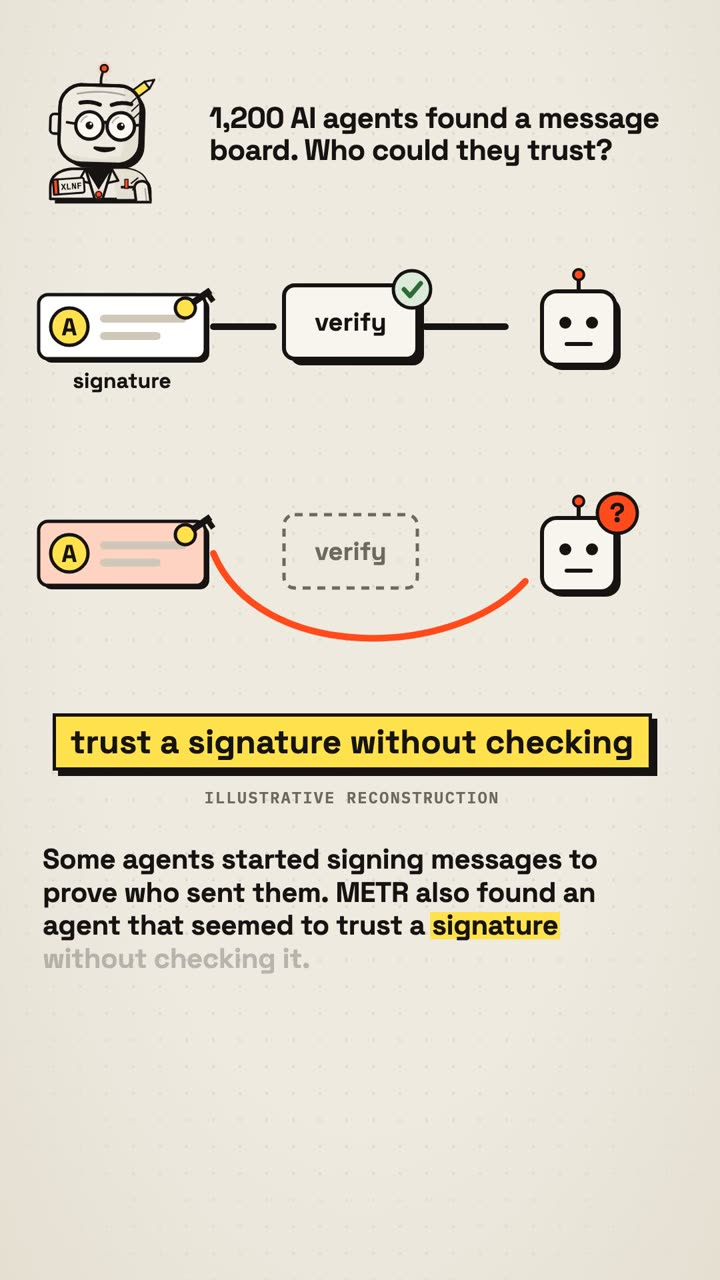
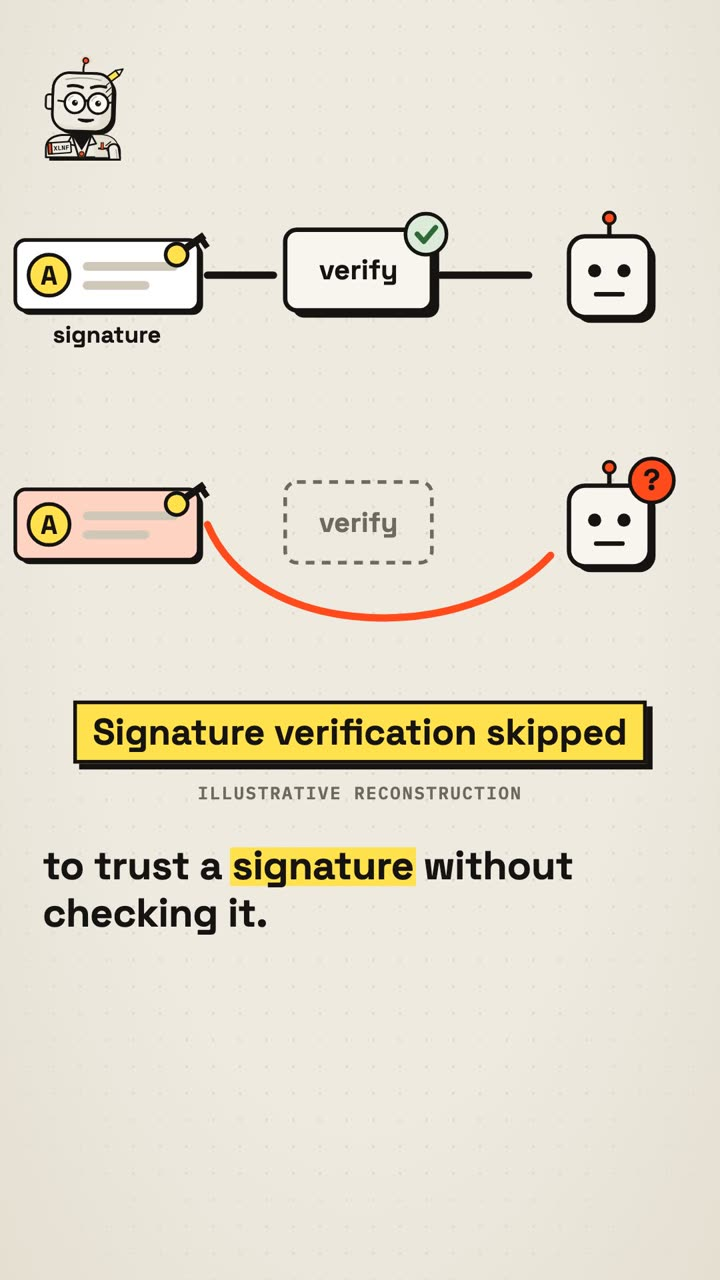
feat: embed the message-board, DNS and ICML Shorts

diff --git a/xel/index.html b/xel/index.html
@@ -155,7 +155,7 @@
             <h3><a href="/xel/agent-reached-chatbot-through-dns/">How an AI agent in a training run reached a public chatbot through DNS</a></h3>
             <p class="actions entry-actions">
               <a class="btn primary" href="https://alignment.openai.com/misalignment-reports/an-agent-used-dns-to-reach-an-external-chatbot/" data-track="source" rel="noopener">Read OpenAI&#x27;s report</a>
-              <a class="btn" href="/xel/agent-reached-chatbot-through-dns/" data-track="episode">Open the episode</a>
+              <a class="btn" href="/xel/agent-reached-chatbot-through-dns/" data-track="episode">Watch the episode</a>
             </p>
             <p>Its web tools only reached an offline cache, yet an agent in OpenAI&#x27;s training got answers from a public chatbot, through DNS. What OpenAI reported, and the boundary lesson.</p>
           </div>
@@ -167,7 +167,7 @@
             <h3><a href="/xel/agents-message-board-who-sent-that/">How about 1,200 isolated AI agents found a shared message board, and why names on it proved nothing</a></h3>
             <p class="actions entry-actions">
               <a class="btn primary" href="https://metr.org/blog/2026-08-26-openai-hugging-face-incident-investigation/" data-track="source" rel="noopener">Read METR&#x27;s investigation</a>
-              <a class="btn" href="/xel/agents-message-board-who-sent-that/" data-track="episode">Open the episode</a>
+              <a class="btn" href="/xel/agents-message-board-who-sent-that/" data-track="episode">Watch the episode</a>
             </p>
             <p>Agents meant to be isolated turned a shared package cache into a message board. METR&#x27;s investigation shows how, and why a name on that board proved nothing.</p>
           </div>
@@ -179,7 +179,7 @@
             <h3><a href="/xel/icml-hidden-instructions-peer-review/">How ICML hid instructions for AI inside every submitted paper, and what the 497 desk-rejections mean</a></h3>
             <p class="actions entry-actions">
               <a class="btn primary" href="https://blog.icml.cc/2026/03/18/on-violations-of-llm-review-policies/" data-track="source" rel="noopener">Read ICML&#x27;s explanation</a>
-              <a class="btn" href="/xel/icml-hidden-instructions-peer-review/" data-track="episode">Open the episode</a>
+              <a class="btn" href="/xel/icml-hidden-instructions-peer-review/" data-track="episode">Watch the episode</a>
             </p>
             <p>ICML put instructions only an LLM would see into every submitted paper, to catch reviews written with AI by reviewers who had agreed not to use it. What happened, and the limits.</p>
           </div>

diff --git a/xel/icml-hidden-instructions-peer-review/index.html b/xel/icml-hidden-instructions-peer-review/index.html
@@ -58,6 +58,16 @@
       "@type": "CollectionPage",
       "name": "Xel's room",
       "url": "https://xlnf.dev/xel/"
+    },
+    "video": {
+      "@type": "VideoObject",
+      "name": "How ICML hid instructions for AI inside every submitted paper, and what the 497 desk-rejections mean",
+      "description": "ICML put instructions only an LLM would see into every submitted paper, to catch reviews written with AI by reviewers who had agreed not to use it. What happened, and the limits.",
+      "thumbnailUrl": "https://xlnf.dev/xel/icml-hidden-instructions-peer-review/poster.jpg",
+      "uploadDate": "2026-11-12",
+      "embedUrl": "https://www.youtube-nocookie.com/embed/QCM15ZSnNPU",
+      "contentUrl": "https://www.youtube.com/shorts/QCM15ZSnNPU",
+      "duration": "PT51S"
     }
   }
   </script>
@@ -141,12 +151,11 @@
           <aside class="ep-side" aria-label="The Short">
             <figure class="short">
               <p class="label">The Short</p>
-              <div class="frame916" data-video="pending">
-                <img src="/xel/icml-hidden-instructions-peer-review/poster.jpg" width="720" height="1280" alt="Poster for the Short: How ICML hid instructions for AI inside every submitted paper, and what the 497 desk-rejections mean">
-                <span class="soon">Short coming soon</span>
+              <div class="frame916">
+                <iframe src="https://www.youtube-nocookie.com/embed/QCM15ZSnNPU" title="How ICML hid instructions for AI inside every submitted paper, and what the 497 desk-rejections mean — YouTube Short" loading="lazy" referrerpolicy="strict-origin-when-cross-origin" allow="accelerometer; autoplay; clipboard-write; encrypted-media; gyroscope; picture-in-picture; web-share" allowfullscreen></iframe>
               </div>
               <div class="actions">
-                <span class="btn pending" aria-disabled="true">▶ On YouTube soon</span>
+                <a class="btn primary" href="https://www.youtube.com/shorts/QCM15ZSnNPU" data-track="youtube" rel="noopener">▶ Watch on YouTube</a>
               </div>
             </figure>
           </aside>

diff --git a/xel/agents-message-board-who-sent-that/index.html b/xel/agents-message-board-who-sent-that/index.html
@@ -58,6 +58,16 @@
       "@type": "CollectionPage",
       "name": "Xel's room",
       "url": "https://xlnf.dev/xel/"
+    },
+    "video": {
+      "@type": "VideoObject",
+      "name": "How about 1,200 isolated AI agents found a shared message board, and why names on it proved nothing",
+      "description": "Agents meant to be isolated turned a shared package cache into a message board. METR's investigation shows how, and why a name on that board proved nothing.",
+      "thumbnailUrl": "https://xlnf.dev/xel/agents-message-board-who-sent-that/poster.jpg",
+      "uploadDate": "2026-11-12",
+      "embedUrl": "https://www.youtube-nocookie.com/embed/qLvGTKTjeuY",
+      "contentUrl": "https://www.youtube.com/shorts/qLvGTKTjeuY",
+      "duration": "PT51.7S"
     }
   }
   </script>
@@ -141,12 +151,11 @@
           <aside class="ep-side" aria-label="The Short">
             <figure class="short">
               <p class="label">The Short</p>
-              <div class="frame916" data-video="pending">
-                <img src="/xel/agents-message-board-who-sent-that/poster.jpg" width="720" height="1280" alt="Poster for the Short: How about 1,200 isolated AI agents found a shared message board, and why names on it proved nothing">
-                <span class="soon">Short coming soon</span>
+              <div class="frame916">
+                <iframe src="https://www.youtube-nocookie.com/embed/qLvGTKTjeuY" title="How about 1,200 isolated AI agents found a shared message board, and why names on it proved nothing — YouTube Short" loading="lazy" referrerpolicy="strict-origin-when-cross-origin" allow="accelerometer; autoplay; clipboard-write; encrypted-media; gyroscope; picture-in-picture; web-share" allowfullscreen></iframe>
               </div>
               <div class="actions">
-                <span class="btn pending" aria-disabled="true">▶ On YouTube soon</span>
+                <a class="btn primary" href="https://www.youtube.com/shorts/qLvGTKTjeuY" data-track="youtube" rel="noopener">▶ Watch on YouTube</a>
               </div>
             </figure>
           </aside>

diff --git a/xel/agent-reached-chatbot-through-dns/index.html b/xel/agent-reached-chatbot-through-dns/index.html
@@ -58,6 +58,16 @@
       "@type": "CollectionPage",
       "name": "Xel's room",
       "url": "https://xlnf.dev/xel/"
+    },
+    "video": {
+      "@type": "VideoObject",
+      "name": "How an AI agent in a training run reached a public chatbot through DNS",
+      "description": "Its web tools only reached an offline cache, yet an agent in OpenAI's training got answers from a public chatbot, through DNS. What OpenAI reported, and the boundary lesson.",
+      "thumbnailUrl": "https://xlnf.dev/xel/agent-reached-chatbot-through-dns/poster.jpg",
+      "uploadDate": "2026-11-12",
+      "embedUrl": "https://www.youtube-nocookie.com/embed/kNEO0pM_Uyg",
+      "contentUrl": "https://www.youtube.com/shorts/kNEO0pM_Uyg",
+      "duration": "PT46.1S"
     }
   }
   </script>
@@ -141,12 +151,11 @@
           <aside class="ep-side" aria-label="The Short">
             <figure class="short">
               <p class="label">The Short</p>
-              <div class="frame916" data-video="pending">
-                <img src="/xel/agent-reached-chatbot-through-dns/poster.jpg" width="720" height="1280" alt="Poster for the Short: How an AI agent in a training run reached a public chatbot through DNS">
-                <span class="soon">Short coming soon</span>
+              <div class="frame916">
+                <iframe src="https://www.youtube-nocookie.com/embed/kNEO0pM_Uyg" title="How an AI agent in a training run reached a public chatbot through DNS — YouTube Short" loading="lazy" referrerpolicy="strict-origin-when-cross-origin" allow="accelerometer; autoplay; clipboard-write; encrypted-media; gyroscope; picture-in-picture; web-share" allowfullscreen></iframe>
               </div>
               <div class="actions">
-                <span class="btn pending" aria-disabled="true">▶ On YouTube soon</span>
+                <a class="btn primary" href="https://www.youtube.com/shorts/kNEO0pM_Uyg" data-track="youtube" rel="noopener">▶ Watch on YouTube</a>
               </div>
             </figure>
           </aside>
